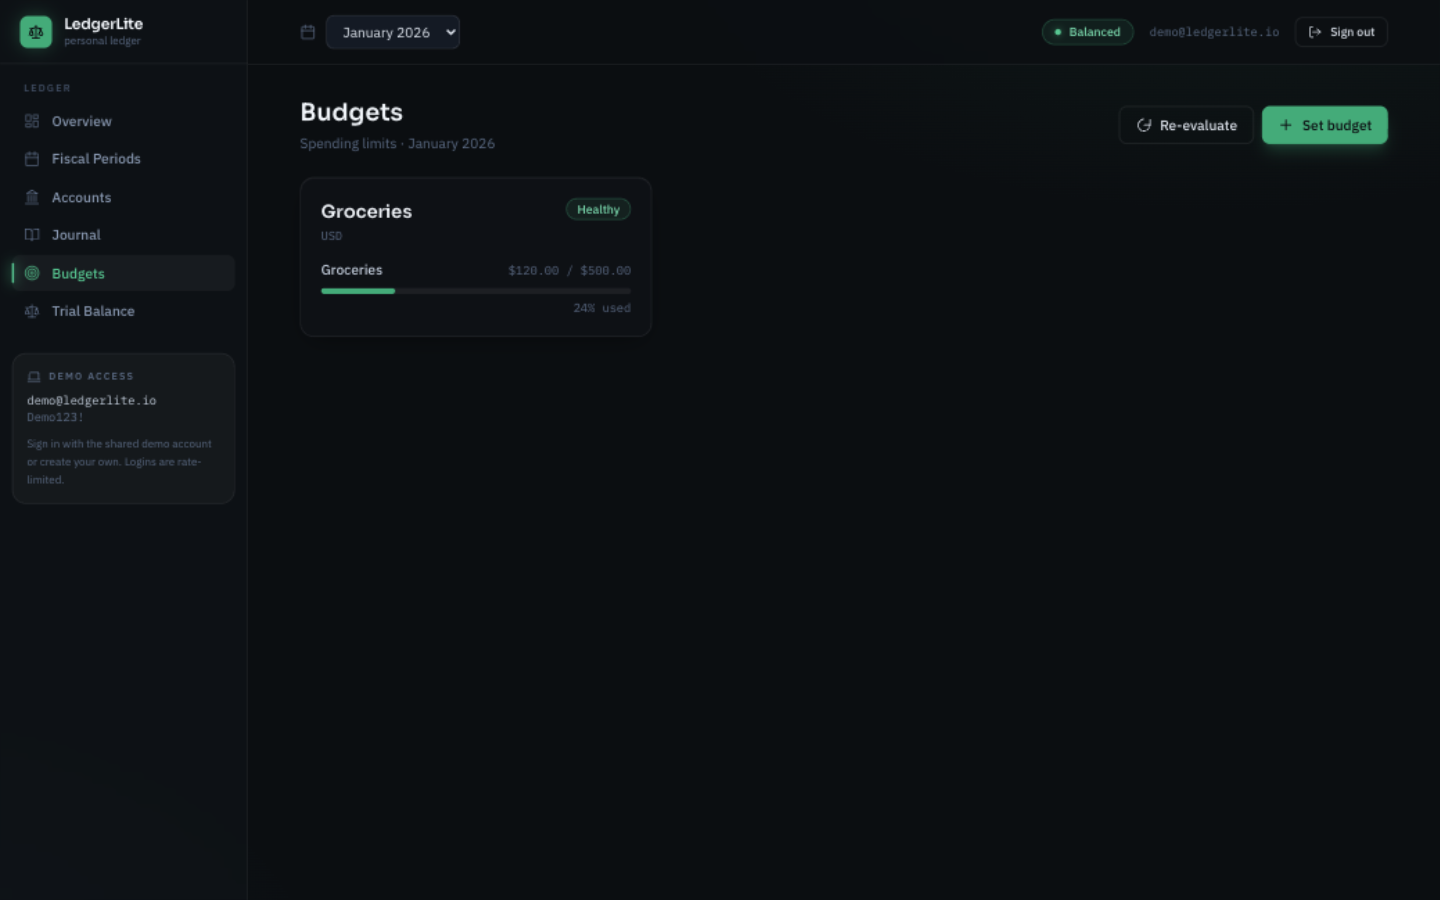
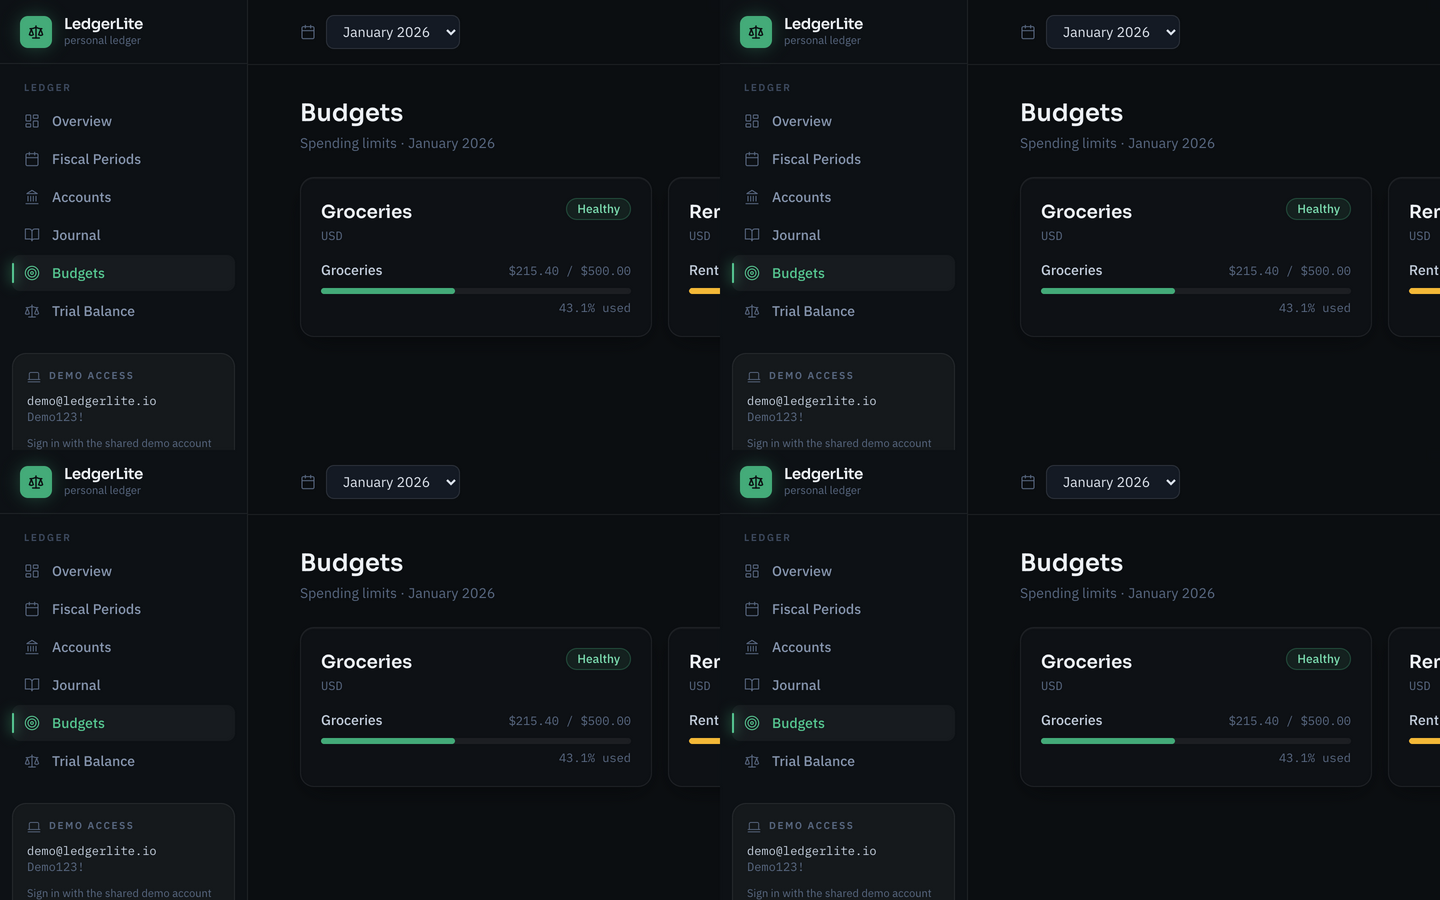
docs: refresh screenshots with richer demo data and add mobile view
Recapture every page after seeding a fuller ledger (salary deposit,
rent payment, second groceries run, rent budget) so the overview,
budgets and trial balance show real figures; the budgets page now
demonstrates both threshold states (emerald under 80%, amber over).
Adds fiscal-periods and responsive mobile shots to the README grid.

diff --git a/README.md b/README.md
@@ -9,13 +9,17 @@ A modern Blazor front-end for the [LedgerLite API](https://github.com/Alex5350/l
 double-entry personal ledger with budgets, fiscal periods and a trial balance - built with a
 **hand-crafted Tailwind design system** instead of a stock component kit.
 
-| Login | Overview |
+| Login | Overview dashboard |
 |:---:|:---:|
 | ![Login](docs/screenshots/login.png) | ![Overview](docs/screenshots/overview.png) |
 
-| Post an entry (live balance check) | Budgets |
+| Post an entry (live balance check) | Budgets with threshold alerts |
 |:---:|:---:|
 | ![Journal editor](docs/screenshots/journal-editor.png) | ![Budgets](docs/screenshots/budgets.png) |
+
+| Fiscal periods | Responsive layout (mobile) |
+|:---:|:---:|
+| ![Periods](docs/screenshots/periods.png) | ![Mobile overview](docs/screenshots/overview-mobile.png) |
 
 ## Why this project exists
 
